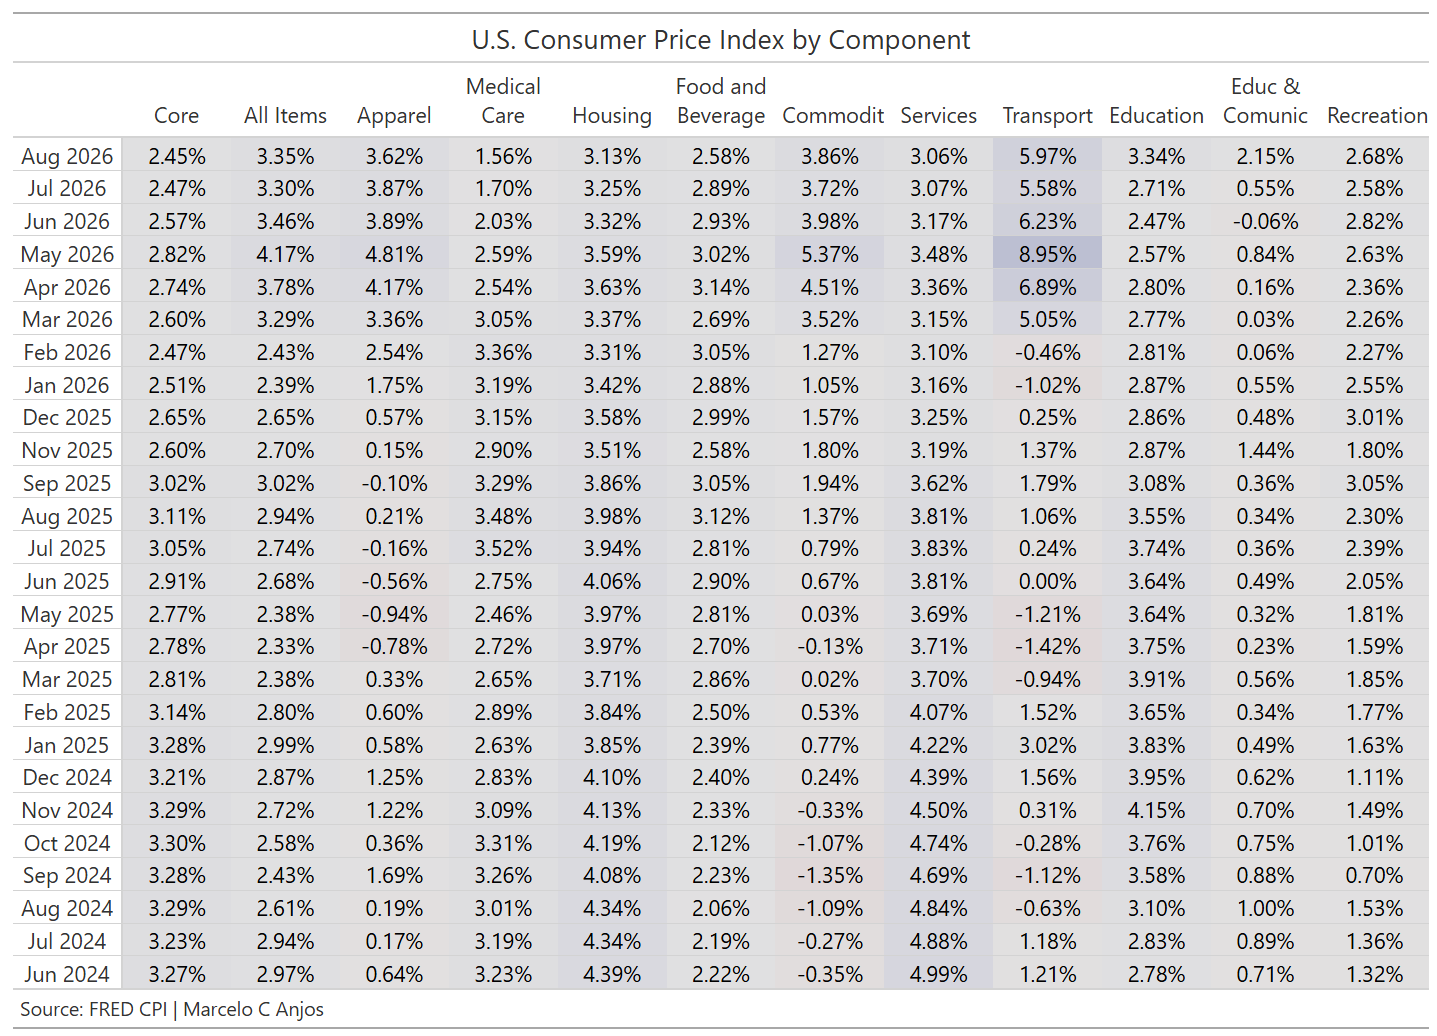
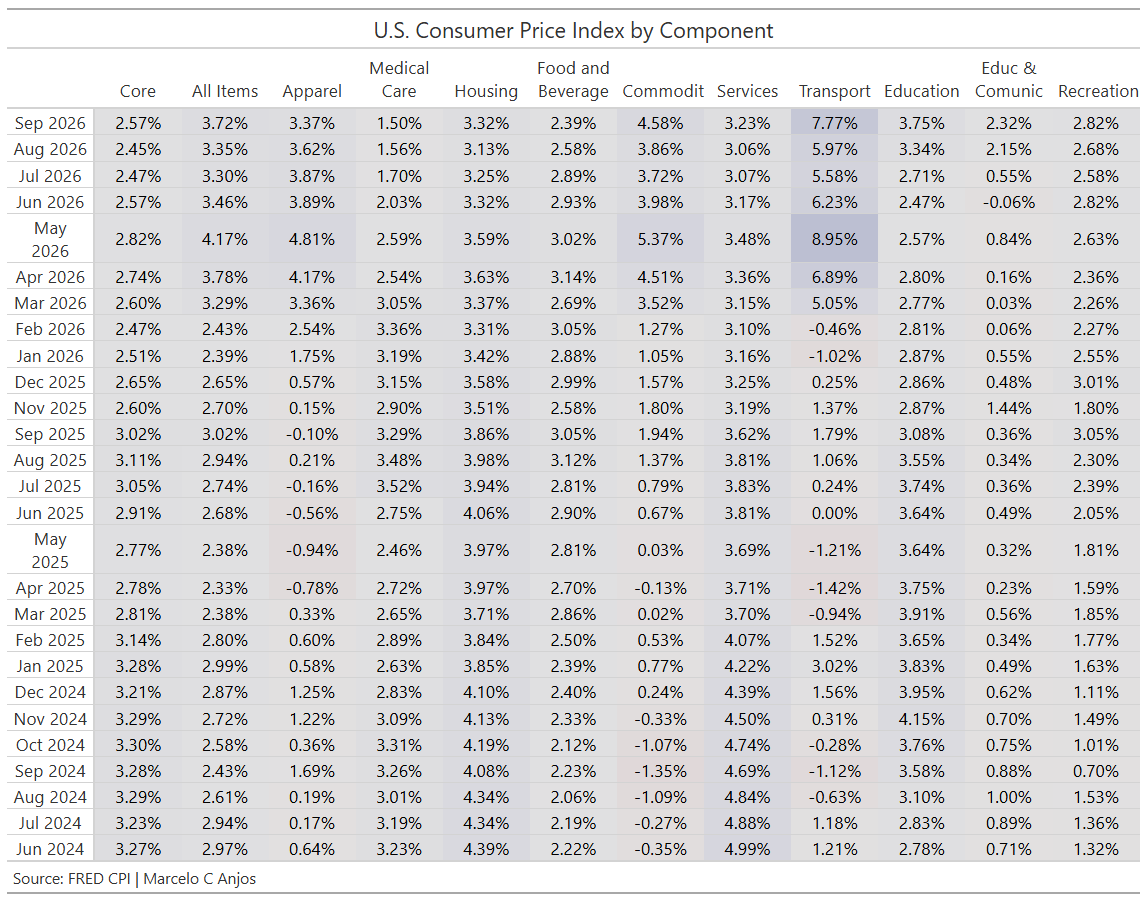
update cpi

Changed region(s): [[0.0, 0.0, 1.0, 0.9989]]

diff --git a/docs/macroeconomic.html b/docs/macroeconomic.html
@@ -315,11 +315,11 @@ gtag('config', 'G-YQPR1KZE4G', { 'anonymize_ip': true});
 </ul>
 <p>Souce: <a href="https://www.bea.gov">Bureau of Economic Analysis</a></p>
 <p><strong>CPI (Consumer Price Index)</strong></p>
-<p><strong>Last update:</strong> Sep, 2026.</p>
+<p><strong>Last update:</strong> Oct, 2026.</p>
 <p>The Consumer Price Index (CPI) measures the average change in prices for a basket of goods and services. It is often used to adjust the cost of living, negotiate wages, and determine social security benefits. CPI only accounts for out-of-pocket expentures(expenses you pay directly).</p>
 <ul>
-<li><p>The annual inflation rate for the United States increased by 3.4% for the 12 months ending August 2026, compared to the previous rate of 3.4% in July, according to U.S. Bureau of Labor Statistics data.</p></li>
-<li><p>The Consumer Price Index(CPI) rose by 0.4% in August 2026 compared to the previous month.</p></li>
+<li><p>The annual inflation rate for the United States increased by 3.7% for the 12 months ending September 2026, compared to the previous rate of 3.4% in August, according to U.S. Bureau of Labor Statistics data.</p></li>
+<li><p>The Consumer Price Index(CPI) rose by 0.6% in September 2026 compared to the previous month.</p></li>
 </ul>
 <table class="caption-top table">
 <thead>
@@ -332,38 +332,38 @@ gtag('config', 'G-YQPR1KZE4G', { 'anonymize_ip': true});
 <tbody>
 <tr class="odd">
 <td>CPI overall</td>
-<td>0.4</td>
-<td>3.4</td>
+<td>0.6</td>
+<td>3.7</td>
 </tr>
 <tr class="even">
 <td>Food</td>
-<td>0.1</td>
-<td>2.7</td>
+<td>0.0</td>
+<td>2.5</td>
 </tr>
 <tr class="odd">
 <td>Energy</td>
-<td>2.1</td>
-<td>16.3</td>
+<td>5.2</td>
+<td>20.4</td>
 </tr>
 <tr class="even">
 <td>Services</td>
-<td>0.3</td>
-<td>3.0</td>
+<td>0.4</td>
+<td>3.1</td>
 </tr>
 <tr class="odd">
 <td>Shelter</td>
-<td>0.3</td>
-<td>3.0</td>
+<td>0.4</td>
+<td>3.2</td>
 </tr>
 </tbody>
 </table>
 <ul>
-<li>The CPI for August 2026 is scheduled to be released on October 14, 2026, at 08:30 a.m.</li>
+<li>The CPI for October 2026 is scheduled to be released on November 10, 2026, at 08:30 a.m.</li>
 </ul>
 <p>Source: <a href="https://www.bls.gov/">Bureau of Labor Statistics</a></p>
-<p><strong>Last update:</strong> Aug, 2026.</p>
+<p><strong>Last update:</strong> Sep, 2026.</p>
 <ul>
-<li>According to Federal Reserve Economic data, the Consumer Price Index (CPI) increase by 3.30% in July 2026 compared to the same month a year earlier.</li>
+<li>According to Federal Reserve Economic data, the Consumer Price Index (CPI) increase by 3.72% in September 2026 compared to the same month a year earlier.</li>
 </ul>
 <p><img src="images/clipboard-2010062285.png" class="img-fluid"></p>
 <p>Source: <a href="https://www.federalreserve.gov/publications.htm">Federal Reserve</a></p>
